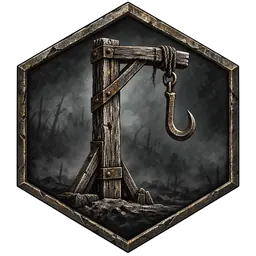
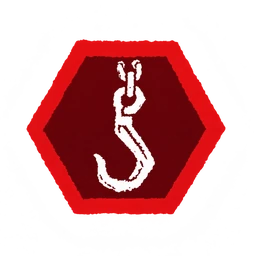
dbd: redraw covers characters and core tokens

diff --git a/apps/web/src/style.css b/apps/web/src/style.css
@@ -1205,6 +1205,7 @@ legend {
 .character-detail header { display: grid; gap: 2px; margin-bottom: 8px; }
 .character-detail header strong { font-size: 17px; }
 .character-detail header small { color: #b9bcae; font-size: 12px; }
+.character-detail-standee { display: block; width: auto; max-width: 100%; height: 240px; object-fit: contain; margin: 2px auto 10px; }
 .character-detail section { padding: 8px 0; border-top: 1px solid #2e3b3b; }
 .character-detail h4 { margin: 0 0 4px; font-size: 14px; color: #e6cf94; display: flex; justify-content: space-between; gap: 8px; }
 .character-detail h4 span { color: #e6b6a6; font-weight: normal; font-size: 12px; white-space: nowrap; }

diff --git a/apps/web/src/CharacterDetail.tsx b/apps/web/src/CharacterDetail.tsx
@@ -67,6 +67,15 @@ export function CharacterDetail({ id }: { id: string }) {
           )}
         </div>
       </header>
+      <img
+        className="character-detail-standee"
+        src={`/assets/mobile/portrait-detail/portrait_${id}.webp`}
+        alt={`${c.name}角色立牌`}
+        loading="lazy"
+        onError={(event) => {
+          event.currentTarget.style.display = "none";
+        }}
+      />
       {c.power && (
         <section className="cd-power">
           <h4>力量 · {c.power.name}</h4>

diff --git a/scripts/verify-dbd-art-sizes.py b/scripts/verify-dbd-art-sizes.py
@@ -42,3 +42,65 @@ for map_name, rooms in ROOMS.items():
 
 count = sum(map(len, ROOMS.values()))
 print(f"DBD_ART_SIZES_PASS rooms={count} size=600x400 WebP total={total}B over_300KB=0 comparisons={count}")
+
+cover_dir = ROOT / "apps/web/public/assets/maps"
+cover_names = ("macmillan_estate", "autohaven_wreckers", "crotus_prenn_asylum", "ormond")
+cover_total = 0
+for cover_name in cover_names:
+    asset = cover_dir / f"{cover_name}_cover.webp"
+    evidence = EVIDENCE / f"{cover_name}-cover-compare.png"
+    assert asset.is_file() and evidence.is_file(), f"missing cover/evidence: {cover_name}"
+    with Image.open(asset) as image:
+        assert image.format == "WEBP" and image.size == (768, 512), f"wrong cover: {asset}"
+    assert asset.stat().st_size < 300_000, f"over 300 KB: {asset}"
+    cover_total += asset.stat().st_size
+print(f"DBD_ART_SIZES_PASS covers=4 size=768x512 WebP total={cover_total}B over_300KB=0 comparisons=4")
+
+portrait_names = (
+    "trapper", "wraith", "hillbilly", "nurse", "hag", "doctor",
+    "dwight", "meg", "claudette", "jake", "nea", "ace", "feng_min",
+)
+portrait_root = ROOT / "apps/web/public/assets/mobile"
+portrait_total = 0
+for name in portrait_names:
+    thumb = portrait_root / f"portrait_{name}.webp"
+    detail = portrait_root / "portrait-detail" / f"portrait_{name}.webp"
+    evidence = EVIDENCE / f"{name}-portrait-compare.png"
+    assert thumb.is_file() and detail.is_file() and evidence.is_file(), f"missing portrait: {name}"
+    with Image.open(thumb) as image:
+        assert image.format == "WEBP" and image.size == (256, 256), f"wrong thumb: {thumb}"
+        assert image.mode == "RGBA" and image.getchannel("A").getextrema()[0] == 0
+    with Image.open(detail) as image:
+        assert image.format == "WEBP" and image.width == 512, f"wrong detail: {detail}"
+        assert image.mode == "RGBA" and image.getchannel("A").getextrema()[0] == 0
+    assert thumb.stat().st_size < 300_000 and detail.stat().st_size < 300_000
+    portrait_total += thumb.stat().st_size + detail.stat().st_size
+print(f"DBD_ART_SIZES_PASS portraits=13 thumbs=256x256 details_width=512 WebP total={portrait_total}B over_300KB=0 comparisons=13")
+
+hall_dir = ROOT / "apps/web/public/assets/hall"
+hall_total = 0
+for kind, expected in (("card", (1200, 900)), ("wide", (1600, 900))):
+    asset = hall_dir / f"dbd-{kind}.webp"
+    evidence = EVIDENCE / f"dbd-{kind}-compare.png"
+    assert asset.is_file() and evidence.is_file(), f"missing hall art: {kind}"
+    with Image.open(asset) as image:
+        assert image.format == "WEBP" and image.size == expected, f"wrong hall art: {asset}"
+    assert asset.stat().st_size < 300_000, f"over 300 KB: {asset}"
+    hall_total += asset.stat().st_size
+print(f"DBD_ART_SIZES_PASS hall=2 sizes=1200x900,1600x900 WebP total={hall_total}B over_300KB=0 comparisons=2")
+
+tokens = (
+    "generator", "hook", "crow", "pallet", "locker", "chest",
+    "hex_totem", "exit_gate", "wall", "madness",
+)
+token_total = 0
+for name in tokens:
+    asset = portrait_root / f"{name}.webp"
+    evidence = EVIDENCE / f"{name}-token-compare.png"
+    assert asset.is_file() and evidence.is_file(), f"missing token: {name}"
+    with Image.open(asset) as image:
+        assert image.format == "WEBP" and image.size == (256, 256), f"wrong token: {asset}"
+        assert image.mode == "RGBA" and image.getchannel("A").getextrema()[0] == 0
+    assert asset.stat().st_size < 300_000, f"over 300 KB: {asset}"
+    token_total += asset.stat().st_size
+print(f"DBD_ART_SIZES_PASS tokens=10 size=256x256 transparent WebP total={token_total}B over_300KB=0 comparisons=10")

diff --git a/docs/dbd/2026-11-23-art-and-maps/ART_MANIFEST.md b/docs/dbd/2026-11-23-art-and-maps/ART_MANIFEST.md
@@ -54,3 +54,62 @@
 | 奥托海文 | diner | [图](../../../apps/web/public/assets/mobile/rooms/diner.webp) | 50648 | [原图](https://drive.google.com/file/d/1H9yFZHh82ab7gZ2eOCvrMcIVLyManUJO/view?usp=drivesdk) | [并排图](comparisons/autohaven-diner-compare.png) |
 | 奥托海文 | old_cabin | [图](../../../apps/web/public/assets/mobile/rooms/old_cabin.webp) | 70370 | [原图](https://drive.google.com/file/d/1H9yFZHh82ab7gZ2eOCvrMcIVLyManUJO/view?usp=drivesdk) | [并排图](comparisons/autohaven-old_cabin-compare.png) |
 | 奥托海文 | cottage | [图](../../../apps/web/public/assets/mobile/rooms/cottage.webp) | 66560 | [原图](https://drive.google.com/file/d/1H9yFZHh82ab7gZ2eOCvrMcIVLyManUJO/view?usp=drivesdk) | [并排图](comparisons/autohaven-cottage-compare.png) |
+
+
+## 地图选图封面
+
+封面以完整地图板的场景素材为参考，重新组合为 3:2 场景画，原图并无独立封面。已有两张封面的旧版保存在 `assets/maps/legacy/`。
+
+| 地图 | 新图（768×512） | 字节 | 参考地图板 | 并排图 |
+|---|---|---:|---|---|
+| macmillan_estate | [图](../../../apps/web/public/assets/maps/macmillan_estate_cover.webp) | 99142 | [原图](https://drive.google.com/file/d/1_eOEs2oUQpZRyWv_AwPpjLLr6QqRkd-b/view?usp=drivesdk) | [并排图](comparisons/macmillan_estate-cover-compare.png) |
+| autohaven_wreckers | [图](../../../apps/web/public/assets/maps/autohaven_wreckers_cover.webp) | 112858 | [原图](https://drive.google.com/file/d/1H9yFZHh82ab7gZ2eOCvrMcIVLyManUJO/view?usp=drivesdk) | [并排图](comparisons/autohaven_wreckers-cover-compare.png) |
+| crotus_prenn_asylum | [图](../../../apps/web/public/assets/maps/crotus_prenn_asylum_cover.webp) | 101332 | [原图](https://drive.google.com/file/d/1kl1dSZrdxUKaTeCvqT0nZR9yz245mp_A/view?usp=drivesdk) | [并排图](comparisons/crotus_prenn_asylum-cover-compare.png) |
+| ormond | [图](../../../apps/web/public/assets/maps/ormond_cover.webp) | 118390 | [原图](https://drive.google.com/file/d/1Cdiu6WEMUfeIYV2KqHyCiyf3qxvdsz4-/view?usp=drivesdk) | [并排图](comparisons/ormond-cover-compare.png) |
+
+## 基础版角色立牌与头像
+
+人物板只有半身图。全身立牌延展了腿部并去除印刷底板；头像从重绘立牌上半身构图。旧头像保存在 `assets/mobile/legacy-portraits/`。
+
+| 角色 | 头像（256×256） | 全身立牌（宽 512） | 字节（头像＋立牌） | 人物板原图 | 并排图 |
+|---|---|---|---:|---|---|
+| trapper | [图](../../../apps/web/public/assets/mobile/portrait_trapper.webp) | [图](../../../apps/web/public/assets/mobile/portrait-detail/portrait_trapper.webp) | 230240 | [原图](https://drive.google.com/file/d/1mfpwr5MA9gMzXSQWXozJkGR1DIlXej16/view?usp=drivesdk) | [并排图](comparisons/trapper-portrait-compare.png) |
+| wraith | [图](../../../apps/web/public/assets/mobile/portrait_wraith.webp) | [图](../../../apps/web/public/assets/mobile/portrait-detail/portrait_wraith.webp) | 156684 | [原图](https://drive.google.com/file/d/1olGrxFfb_Xc6SAAV5tzG6b1zGLchFf5K/view?usp=drivesdk) | [并排图](comparisons/wraith-portrait-compare.png) |
+| hillbilly | [图](../../../apps/web/public/assets/mobile/portrait_hillbilly.webp) | [图](../../../apps/web/public/assets/mobile/portrait-detail/portrait_hillbilly.webp) | 162312 | [原图](https://drive.google.com/file/d/19rf82pXnfvUapfcpe_30k621M9ExcOL_/view?usp=drivesdk) | [并排图](comparisons/hillbilly-portrait-compare.png) |
+| nurse | [图](../../../apps/web/public/assets/mobile/portrait_nurse.webp) | [图](../../../apps/web/public/assets/mobile/portrait-detail/portrait_nurse.webp) | 149642 | [原图](https://drive.google.com/file/d/1RUD2jV1n7l1MD4aDC1wjDUDjxxqGGcB-/view?usp=drivesdk) | [并排图](comparisons/nurse-portrait-compare.png) |
+| hag | [图](../../../apps/web/public/assets/mobile/portrait_hag.webp) | [图](../../../apps/web/public/assets/mobile/portrait-detail/portrait_hag.webp) | 161622 | [原图](https://drive.google.com/file/d/1XgXq3iPsoc7eiW1D3Bsn8ZiqMLMHW9G-/view?usp=drivesdk) | [并排图](comparisons/hag-portrait-compare.png) |
+| doctor | [图](../../../apps/web/public/assets/mobile/portrait_doctor.webp) | [图](../../../apps/web/public/assets/mobile/portrait-detail/portrait_doctor.webp) | 135780 | [原图](https://drive.google.com/file/d/1VdpeLLWAB1T4585ylbSStVHkVFmJUath/view?usp=drivesdk) | [并排图](comparisons/doctor-portrait-compare.png) |
+| dwight | [图](../../../apps/web/public/assets/mobile/portrait_dwight.webp) | [图](../../../apps/web/public/assets/mobile/portrait-detail/portrait_dwight.webp) | 180386 | [原图](https://drive.google.com/file/d/1CcS4XHktKA4-smUVBr9eARG7It7nIOfq/view?usp=drivesdk) | [并排图](comparisons/dwight-portrait-compare.png) |
+| meg | [图](../../../apps/web/public/assets/mobile/portrait_meg.webp) | [图](../../../apps/web/public/assets/mobile/portrait-detail/portrait_meg.webp) | 209084 | [原图](https://drive.google.com/file/d/1CqHNQw8oq4KfjrApWUxQgpTZqyojeZxz/view?usp=drivesdk) | [并排图](comparisons/meg-portrait-compare.png) |
+| claudette | [图](../../../apps/web/public/assets/mobile/portrait_claudette.webp) | [图](../../../apps/web/public/assets/mobile/portrait-detail/portrait_claudette.webp) | 140830 | [原图](https://drive.google.com/file/d/17NNKjlPErsEUyiJ_-7hAAWg8lIFfbLjB/view?usp=drivesdk) | [并排图](comparisons/claudette-portrait-compare.png) |
+| jake | [图](../../../apps/web/public/assets/mobile/portrait_jake.webp) | [图](../../../apps/web/public/assets/mobile/portrait-detail/portrait_jake.webp) | 163958 | [原图](https://drive.google.com/file/d/1MdRqMPFm3nCA5dNOPiEfO5hc6zTirTAb/view?usp=drivesdk) | [并排图](comparisons/jake-portrait-compare.png) |
+| nea | [图](../../../apps/web/public/assets/mobile/portrait_nea.webp) | [图](../../../apps/web/public/assets/mobile/portrait-detail/portrait_nea.webp) | 196810 | [原图](https://drive.google.com/file/d/1tK4Yl2BxJxctotFG04bwKHURCh6fr7y0/view?usp=drivesdk) | [并排图](comparisons/nea-portrait-compare.png) |
+| ace | [图](../../../apps/web/public/assets/mobile/portrait_ace.webp) | [图](../../../apps/web/public/assets/mobile/portrait-detail/portrait_ace.webp) | 174498 | [原图](https://drive.google.com/file/d/1y9T2Fkk0OZMFgPIFrxp9wLhse7TohfC0/view?usp=drivesdk) | [并排图](comparisons/ace-portrait-compare.png) |
+| feng_min | [图](../../../apps/web/public/assets/mobile/portrait_feng_min.webp) | [图](../../../apps/web/public/assets/mobile/portrait-detail/portrait_feng_min.webp) | 146800 | [原图](https://drive.google.com/file/d/1pDDGlIOM6PcJdWQcVTLGyVblbYNg5Oo7/view?usp=drivesdk) | [并排图](comparisons/feng_min-portrait-compare.png) |
+
+## 大厅封面
+
+素材库没有独立包装盒高清图；两张大厅画面以夹子鬼、德怀特、梅格的人物板为参考重新构图，未临摹包装盒版面。原图保存在 `assets/hall/legacy/`。
+
+| 用途 | 新图 | 字节 | 参考 | 并排图 |
+|---|---|---:|---|---|
+| 卡带（1200×900） | [图](../../../apps/web/public/assets/hall/dbd-card.webp) | 132298 | [夹子鬼人物板](https://drive.google.com/file/d/1mfpwr5MA9gMzXSQWXozJkGR1DIlXej16/view?usp=drivesdk)及德怀特、梅格人物板 | [并排图](comparisons/dbd-card-compare.png) |
+| 横幅（1600×900） | [图](../../../apps/web/public/assets/hall/dbd-wide.webp) | 143238 | [夹子鬼人物板](https://drive.google.com/file/d/1mfpwr5MA9gMzXSQWXozJkGR1DIlXej16/view?usp=drivesdk)及德怀特、梅格人物板 | [并排图](comparisons/dbd-wide-compare.png) |
+
+
+## 地图道具和标记（第一批）
+
+旧图保存在 `assets/mobile/legacy-tokens/`。原图的黑底已去掉，保留六边形或纸板外轮廓。
+
+| 标记 | 新图（256×256） | 字节 | 官方参考 | 并排图 |
+|---|---|---:|---|---|
+| generator | [图](../../../apps/web/public/assets/mobile/generator.webp) | 17620 | [原图](https://drive.google.com/file/d/1q1NL8L0yVmo0rx1EVKu4sz-Y0RH0_nSB/view?usp=drivesdk) | [并排图](comparisons/generator-token-compare.png) |
+| hook | [图](../../../apps/web/public/assets/mobile/hook.webp) | 11828 | [原图](https://drive.google.com/file/d/1THDzxsDsx0hYOE-YZYFHsBZc8RKBfyWn/view?usp=drivesdk) | [并排图](comparisons/hook-token-compare.png) |
+| crow | [图](../../../apps/web/public/assets/mobile/crow.webp) | 11104 | [原图](https://drive.google.com/file/d/1c1hlqV2QDKMuEUb0Y1vB1JOjA-zRAuyt/view?usp=drivesdk) | [并排图](comparisons/crow-token-compare.png) |
+| pallet | [图](../../../apps/web/public/assets/mobile/pallet.webp) | 14320 | [原图](https://drive.google.com/file/d/1dUl4lLbS-4HrPzDasBiwyT0892e9LCkp/view?usp=drivesdk) | [并排图](comparisons/pallet-token-compare.png) |
+| locker | [图](../../../apps/web/public/assets/mobile/locker.webp) | 14802 | [原图](https://drive.google.com/file/d/1oiSaVvPXUOS0e1kyg4b37cy_Mch7HhIF/view?usp=drivesdk) | [并排图](comparisons/locker-token-compare.png) |
+| chest | [图](../../../apps/web/public/assets/mobile/chest.webp) | 15450 | [原图](https://drive.google.com/file/d/1qUiR14SRGTiLOjuo5EJmmi4i3YHw9ewt/view?usp=drivesdk) | [并排图](comparisons/chest-token-compare.png) |
+| hex_totem | [图](../../../apps/web/public/assets/mobile/hex_totem.webp) | 12638 | [原图](https://drive.google.com/file/d/1Ya0KQH_Ob2z7o6OyGd0VsPNHBBzkbWxB/view?usp=drivesdk) | [并排图](comparisons/hex_totem-token-compare.png) |
+| exit_gate | [图](../../../apps/web/public/assets/mobile/exit_gate.webp) | 14288 | [原图](https://drive.google.com/file/d/1Og_ZptTQ7gZr9KvvYCrLJn_cb8F8q3x3/view?usp=drivesdk) | [并排图](comparisons/exit_gate-token-compare.png) |
+| wall | [图](../../../apps/web/public/assets/mobile/wall.webp) | 16694 | [原图](https://drive.google.com/file/d/1tlWvyi4z82Wb0CNL9hh0FqGvmwXEGtIN/view?usp=drivesdk) | [并排图](comparisons/wall-token-compare.png) |
+| madness | [图](../../../apps/web/public/assets/mobile/madness.webp) | 18330 | [原图](https://drive.google.com/file/d/18jGWf9wRDL6kvGvMxIFIMqtzb7wJh5JK/view?usp=drivesdk) | [并排图](comparisons/madness-token-compare.png) |

diff --git a/docs/dbd/2026-11-23-art-and-maps/progress.md b/docs/dbd/2026-11-23-art-and-maps/progress.md
@@ -8,10 +8,13 @@ Original prompt: 按 `INSTRUCTION.md` 使用用户云端「美术资源」参考
 - 两张地图的 20 个房间名、出生骰面和四色道具格已先入 `MAP_DATA.json` 的 `candidate_maps`；候选地图默认不可选。
 - 尺寸检查脚本 `scripts/verify-dbd-art-sizes.py`：41 张图均通过，合计 2,710,136 B，单张均低于 300 KB。
 - 现有地图 21 张房间图已重绘，旧版保存在 `rooms/legacy/`，并排图已归档。
+- 四张地图选图封面已重绘为 768×512 WebP；基础版 13 名角色各有透明头像与全身立牌，人物详情页接入全身图，旧头像已备份。
+- 大厅卡带与横幅已重绘，分别为 1200×900 与 1600×900 WebP；原版大厅图已备份。
+- 已重绘 10 个常见地图道具/标记（发电机、钩子、乌鸦、木板、柜子、箱子、图腾、出口、墙、疯狂），256×256 透明 WebP；旧图已备份。
 
 ## 待完成
 
 - 逐条核对两张新地图所有路线的端点、颜色、箭头、墙、路口；有任何 `CHECK_REQUIRED` 就保持不可选。完成后才做引擎固定种子整局。
-- 重绘地图封面、13 名基础版角色立绘与头像、道具/标记、卡牌与骰面、大厅封面。扩展角色只列清单。
+- 重绘剩余道具/标记、卡牌与骰面。扩展角色只列清单。
 - 核查人物板/卡牌所有英文内容与当前游戏已接入中文版本；用户允许用当前版或自行翻译，但不声称等同中文版实物印刷。
 - 手机视口全流程截图、完整浏览器验证、最终报告及提交。原始参考只在 `reference/`，不直接放进游戏。
